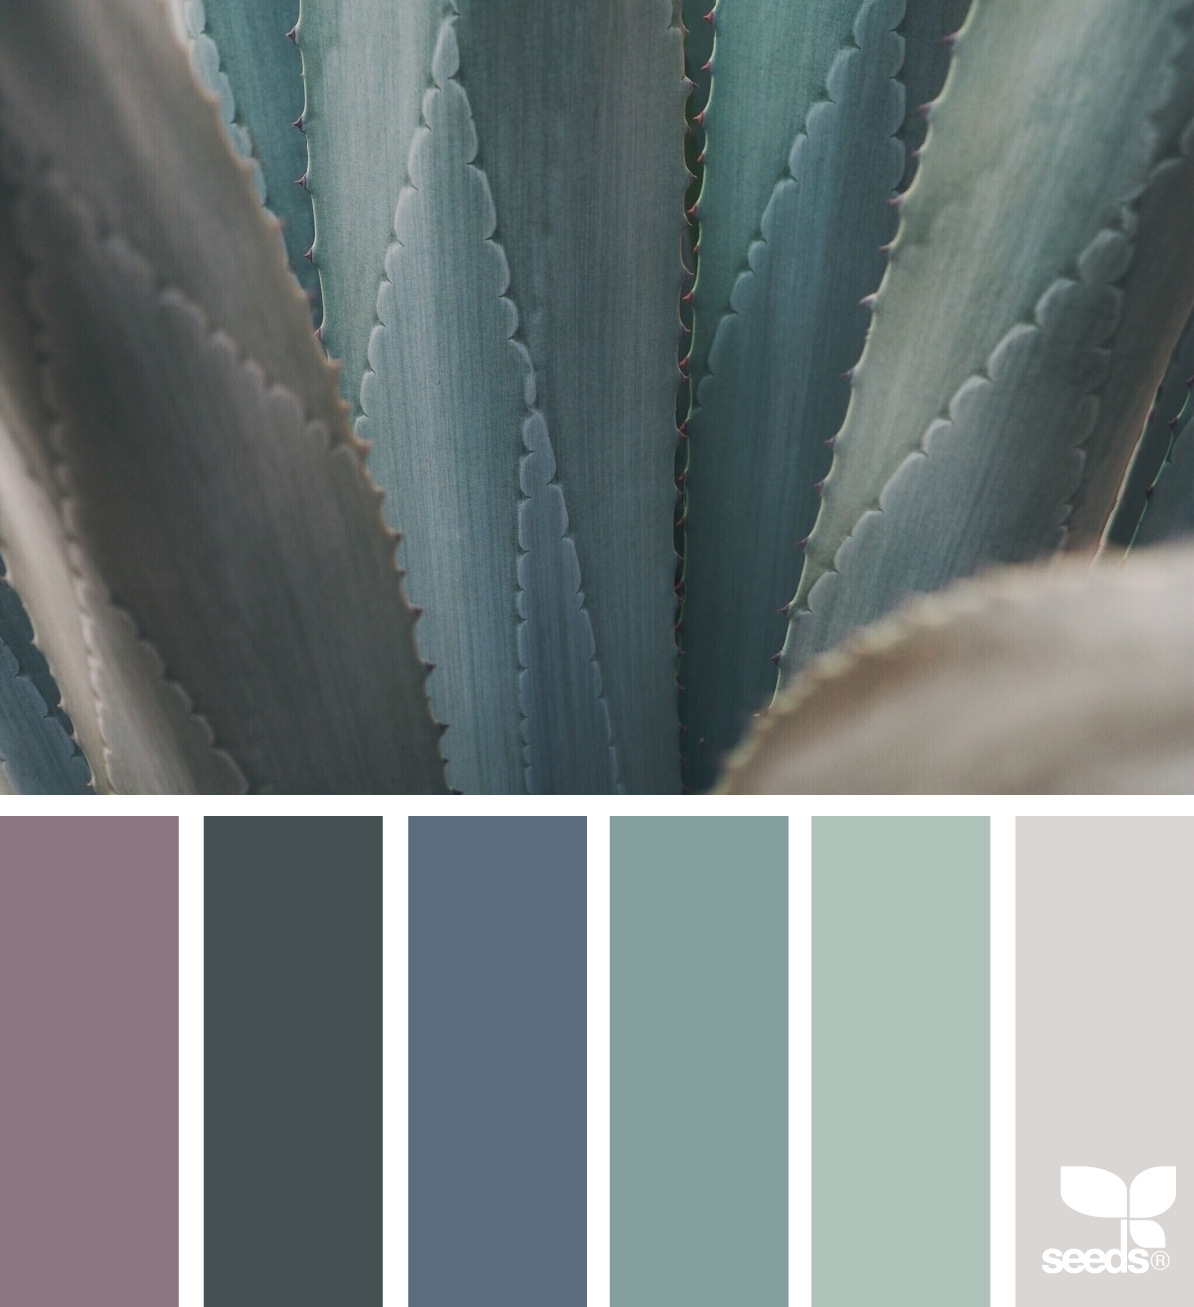
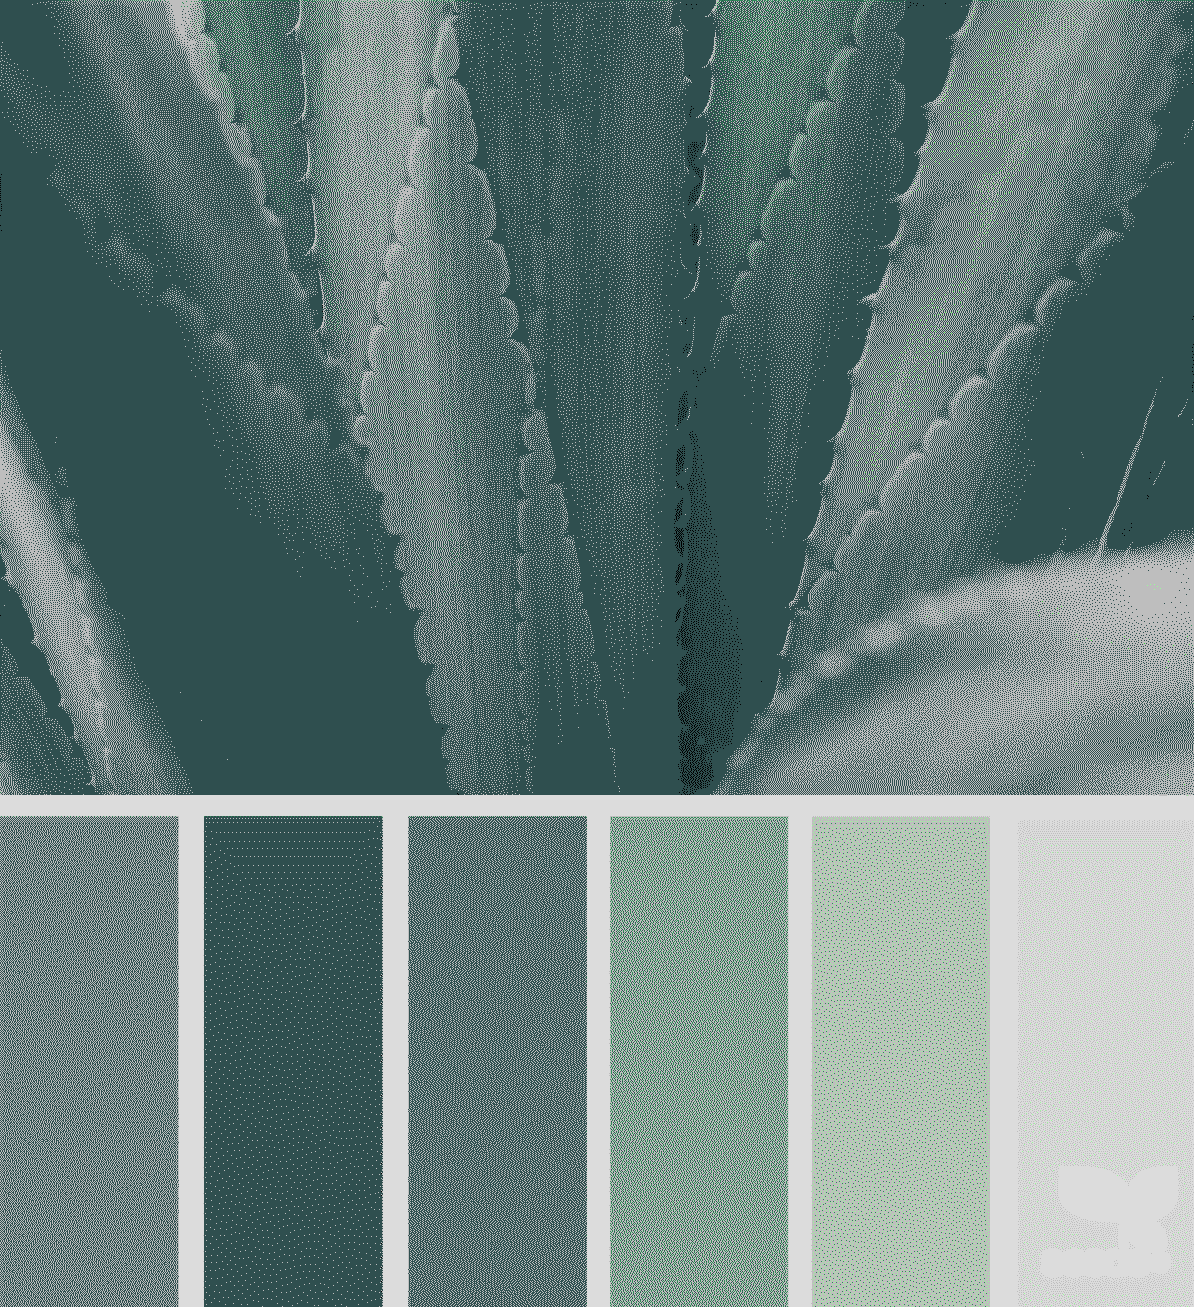
Dither agave image to green
modified:   CHANGELOG.md
	modified:   package.json
	modified:   src/images/agave-color.png

diff --git a/CHANGELOG.md b/CHANGELOG.md
@@ -6,6 +6,10 @@ and this project adheres to [Semantic Versioning](https://semver.org/spec/v2.0.0
 
 ## [Unreleased]
 
+## [0.3.4] - 2021-09-20
+### Added
+- Minify agave image using dithering
+
 ## [0.3.3] - 2021-03-22
 ### Changed
 - Minify CSS for production
